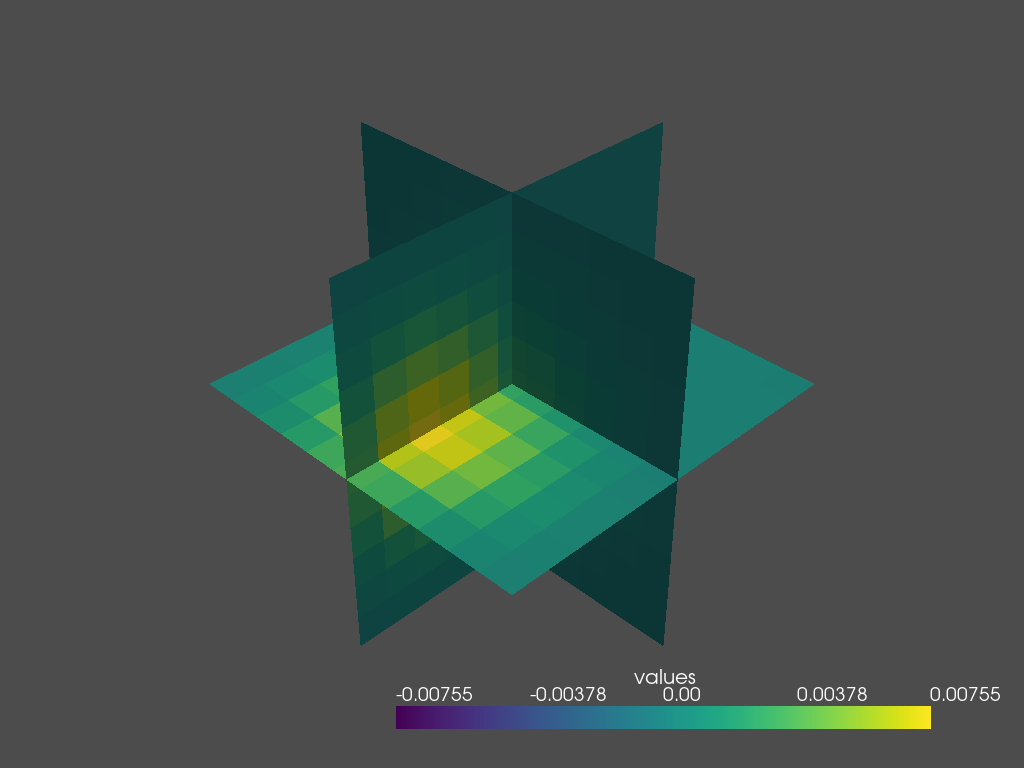
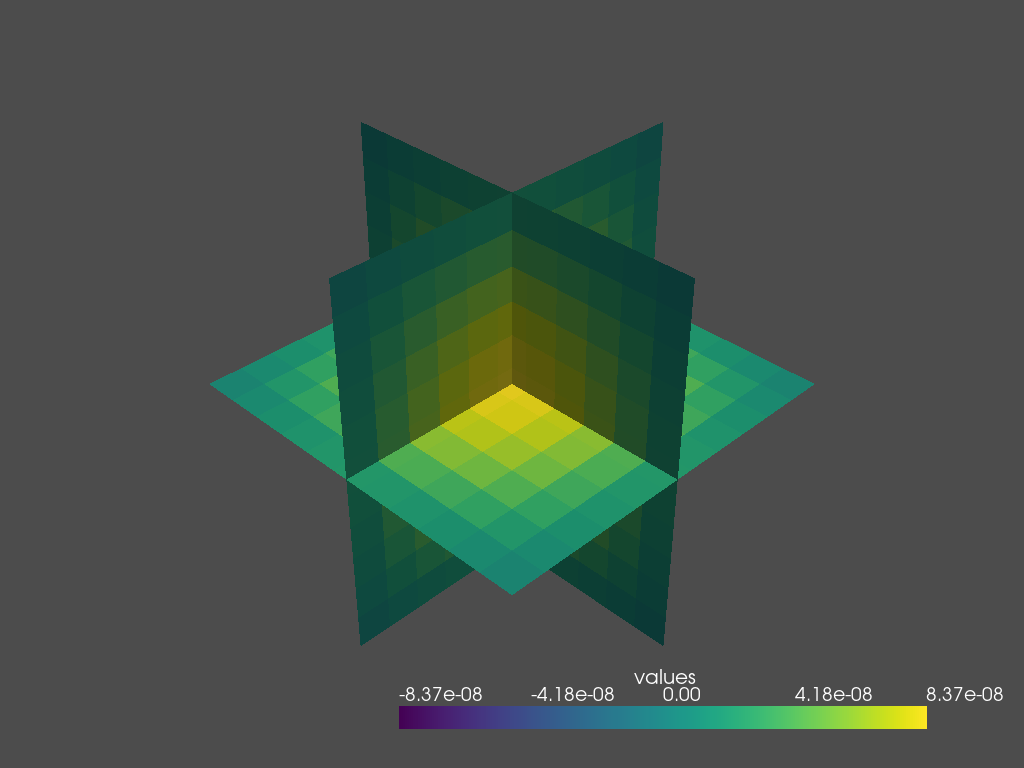
:wastebasket: cleaned up Sample_Equation diffusion scripts

diff --git a/Sample_Equations/diffusion/diffusion_3D_wBCs.py b/Sample_Equations/diffusion/diffusion_3D_wBCs.py
@@ -5,22 +5,19 @@
 import argparse
 import numpy as np
 
-import sys, os
-import codecs, json 
+from devito import Grid, TimeFunction, Eq, solve, Operator, Constant, norm
 
-# os.system('/usr/bin/Xvfb :99 -screen 0 1024x768x24 &')
+import os
 os.environ['DISPLAY'] = ':99'
 
 import panel as pn
 pn.extension('vtk')
 
-from devito import Grid, TimeFunction, Eq, solve, Operator, Constant, norm
-
 parser = argparse.ArgumentParser(description='Process arguments.')
 
 parser.add_argument("-d", "--shape", default=(11, 11, 11), type=int, nargs="+",
                     help="Number of grid points along each axis")
-parser.add_argument("-so", "--space_order", default=4,
+parser.add_argument("-so", "--space_order", default=2,
                     type=int, help="Space order of the simulation")
 parser.add_argument("-to", "--time_order", default=1,
                     type=int, help="Time order of the simulation")
@@ -31,23 +28,14 @@ parser.add_argument("-bls", "--blevels", default=2, type=int, nargs="+",
 parser.add_argument("-plot", "--plot", default=False, type=bool, help="Plot3D")
 args = parser.parse_args()
 
-def dump_json(u,name):
-    b = u.data.tolist() # nested lists with same data, indices
-    file_path = f"{name}.json" ## your path variable
-    json.dump(b, codecs.open(file_path, 'w', encoding='utf-8'), 
-            separators=(',', ':'), 
-            sort_keys=True, 
-            indent=4) ### this saves the array in .json format
 
 def plot_3dfunc(u):
-    pn.extension('vtk')
     # Plot a 3D structured grid using pyvista
 
     import matplotlib.pyplot as plt
     import pyvista as pv
 
-  
-    cmap = plt.colormaps["viridis"]
+    cmap = plt.cm.get_cmap("viridis")
     values = u.data[0, :, :, :]
     vistagrid = pv.UniformGrid()
     vistagrid.dimensions = np.array(values.shape) + 1
@@ -57,11 +45,12 @@ def plot_3dfunc(u):
     vistaslices = vistagrid.slice_orthogonal()
     # vistagrid.plot(show_edges=True)
     # vistaslices.plot(cmap=cmap)
-
+    
     plotter = pv.Plotter(off_screen=True)
     color_range = abs(max(values.min(), values.max(), key=abs))
     plotter.add_mesh(vistaslices,cmap=cmap,clim=[-color_range,color_range])
     plotter.show(screenshot=f'./diffuse.png') 
+
 
 # Some variable declarations
 nx, ny, nz = args.shape
@@ -74,15 +63,13 @@ sigma = .25
 dt = sigma * dx * dz * dy / nu
 so = args.space_order
 to = 1
+print("dx %s, dy %s, dz %s" % (dx, dy, dz))
 
 grid = Grid(shape=(nx, ny, nz), extent=(2., 2., 2.))
 u = TimeFunction(name='u', grid=grid, space_order=so)
 # init_hat(field=u.data[0], dx=dx, dy=dy, value=2.)
 u.data[:, :, :, :] = 0
-u.data[:, int(3*nx/4), int(ny/2), int(nz/2)] = 1
-
-
-dump_json(u,"initial_value")
+u.data[:, int(nx/2), :, :] = 1
 
 a = Constant(name='a')
 # Create an equation with second-order derivatives
@@ -94,7 +81,6 @@ eq_stencil = Eq(u.forward, stencil)
 x, y, z = grid.dimensions
 t = grid.stepping_dim
 
-
 # Add boundary conditions
 # bc = [Eq(u[t+1, x, y, 0], 2.)]  # bottom
 # bc += [Eq(u[t+1, x, y, nz-1], 2.)]  # top
@@ -104,21 +90,22 @@ t = grid.stepping_dim
 # bc += [Eq(u[t+1, x, 0, z], 2.)]  # front
 # bc += [Eq(u[t+1, x, ny-1, z], 2.)]  # back
 
+print(eq_stencil)
+
 # Create an operator that updates the forward stencil point
 # plus adding boundary conditions
 # op = Operator([eq_stencil] + bc, subdomain=grid.interior)
 
 # No BCs
-op = Operator([eq_stencil], subdomain=grid.interior)
-# print(op.ccode)
+op = Operator([eq_stencil], subdomain=grid.interior,time=nt, dt=dt, a=nu)
 
-print(nt)
+print(op.arguments())
+
 # Apply the operator for a number of timesteps
 op(time=nt, dt=dt, a=nu)
 
-print(u.shape)
-# print("nt+dt/dt gives :",int((nt+dt)/dt))
 if args.plot:
     plot_3dfunc(u)
 
+print("Field norm is:", norm(u))
 # import pdb;pdb.set_trace()

diff --git a/Sample_Equations/diffusion/c_files/kernel.c b/Sample_Equations/diffusion/c_files/kernel.c
@@ -1,0 +1,78 @@
+#define _POSIX_C_SOURCE 200809L
+#define START_TIMER(S) struct timeval start_ ## S , end_ ## S ; gettimeofday(&start_ ## S , NULL);
+#define STOP_TIMER(S,T) gettimeofday(&end_ ## S, NULL); T->S += (double)(end_ ## S .tv_sec-start_ ## S.tv_sec)+(double)(end_ ## S .tv_usec-start_ ## S .tv_usec)/1000000;
+#define MIN(a,b) (((a) < (b)) ? (a) : (b))
+
+#include "stdlib.h"
+#include "math.h"
+#include "sys/time.h"
+#include "xmmintrin.h"
+#include "pmmintrin.h"
+#include <stdio.h>
+
+struct dataobj
+{
+  void *restrict data;
+  unsigned long * size;
+  unsigned long * npsize;
+  unsigned long * dsize;
+  int * hsize;
+  int * hofs;
+  int * oofs;
+  void * dmap;
+} ;
+
+struct profiler
+{
+  double section0;
+} ;
+
+
+int Kernel(const float a, struct dataobj *restrict u_vec, const float dt, const float h_x, const float h_y, const float h_z, const int time_M, const int time_m, const int x0_blk0_size, const int x_M, const int x_m, const int y0_blk0_size, const int y_M, const int y_m, const int z_M, const int z_m, struct profiler * timers)
+{
+  float (*restrict u)[u_vec->size[1]][u_vec->size[2]][u_vec->size[3]] __attribute__ ((aligned (64))) = (float (*)[u_vec->size[1]][u_vec->size[2]][u_vec->size[3]]) u_vec->data;
+
+  /* Flush denormal numbers to zero in hardware */
+  _MM_SET_DENORMALS_ZERO_MODE(_MM_DENORMALS_ZERO_ON);
+  _MM_SET_FLUSH_ZERO_MODE(_MM_FLUSH_ZERO_ON);
+
+  float r0 = 1.0F/dt;
+  float r1 = 1.0F/(h_x*h_x);
+  float r2 = 1.0F/(h_y*h_y);
+  float r3 = 1.0F/(h_z*h_z);
+
+  printf("\nshape of Kernel = %lx, %lx, %lx\n",u_vec->size[1],u_vec->size[2],u_vec->size[3]);
+  printf("x_m               = %i\n", x_m);
+  printf("x_M               = %i\n", x_M);
+  printf("time_m            = %i\n", time_m);
+  printf("time_M            = %i\n", time_M);
+  for (int time = time_m, t0 = (time)%(2), t1 = (time + 1)%(2); time <= time_M; time += 1, t0 = (time)%(2), t1 = (time + 1)%(2))
+  {
+    /* Begin section0 */
+    START_TIMER(section0)
+    for (int x0_blk0 = x_m; x0_blk0 <= x_M; x0_blk0 += x0_blk0_size)
+    {
+      for (int y0_blk0 = y_m; y0_blk0 <= y_M; y0_blk0 += y0_blk0_size)
+      {
+        for (int x = x0_blk0; x <= MIN(x_M, x0_blk0 + x0_blk0_size - 1); x += 1)
+        {
+          for (int y = y0_blk0; y <= MIN(y_M, y0_blk0 + y0_blk0_size - 1); y += 1)
+          {
+            #pragma omp simd aligned(u:32)
+            for (int z = z_m; z <= z_M; z += 1)
+            {
+              float r4 = -2.5F*u[t0][x + 4][y + 4][z + 4];
+              u[t1][x + 4][y + 4][z + 4] = dt*(a*(r1*(r4 + (-8.33333333e-2F)*(u[t0][x + 2][y + 4][z + 4] + u[t0][x + 6][y + 4][z + 4]) + 1.33333333F*(u[t0][x + 3][y + 4][z + 4] + u[t0][x + 5][y + 4][z + 4])) + r2*(r4 + (-8.33333333e-2F)*(u[t0][x + 4][y + 2][z + 4] + u[t0][x + 4][y + 6][z + 4]) + 1.33333333F*(u[t0][x + 4][y + 3][z + 4] + u[t0][x + 4][y + 5][z + 4])) + r3*(r4 + (-8.33333333e-2F)*(u[t0][x + 4][y + 4][z + 2] + u[t0][x + 4][y + 4][z + 6]) + 1.33333333F*(u[t0][x + 4][y + 4][z + 3] + u[t0][x + 4][y + 4][z + 5]))) + r0*u[t0][x + 4][y + 4][z + 4]);
+            }
+          }
+        }
+      }
+    }
+    STOP_TIMER(section0,timers)
+    /* End section0 */
+  }
+
+  return 0;
+}
+/* Backdoor edit at Tue May 23 17:00:19 2023*/ 
+/* Backdoor edit at Tue May 23 17:00:39 2023*/ 

diff --git a/Sample_Equations/diffusion/MFC.py b/Sample_Equations/diffusion/MFC.py
@@ -5,22 +5,19 @@
 import argparse
 import numpy as np
 
+from devito import Grid, TimeFunction, Eq, solve, Operator, Constant, norm
 
-import sys, os
-
-# os.system('/usr/bin/Xvfb :99 -screen 0 1024x768x24 &')
+import os
 os.environ['DISPLAY'] = ':99'
 
 import panel as pn
 pn.extension('vtk')
 
-from devito import Grid, TimeFunction, Eq, solve, Operator, Constant, norm
-
 parser = argparse.ArgumentParser(description='Process arguments.')
 
 parser.add_argument("-d", "--shape", default=(11, 11, 11), type=int, nargs="+",
                     help="Number of grid points along each axis")
-parser.add_argument("-so", "--space_order", default=4,
+parser.add_argument("-so", "--space_order", default=2,
                     type=int, help="Space order of the simulation")
 parser.add_argument("-to", "--time_order", default=1,
                     type=int, help="Time order of the simulation")
@@ -31,33 +28,8 @@ parser.add_argument("-bls", "--blevels", default=2, type=int, nargs="+",
 parser.add_argument("-plot", "--plot", default=False, type=bool, help="Plot3D")
 args = parser.parse_args()
 
-
-def plot_3dfunc(u):
-    pn.extension('vtk')
-    # Plot a 3D structured grid using pyvista
-
-    import matplotlib.pyplot as plt
-    import pyvista as pv
-
-  
-    cmap = plt.colormaps["viridis"]
-    values = u.data[0, :, :, :]
-    vistagrid = pv.UniformGrid()
-    vistagrid.dimensions = np.array(values.shape) + 1
-    vistagrid.spacing = (1, 1, 1)
-    vistagrid.origin = (0, 0, 0)  # The bottom left corner of the data set
-    vistagrid.cell_data["values"] = values.flatten(order="F")
-    vistaslices = vistagrid.slice_orthogonal()
-    # vistagrid.plot(show_edges=True)
-    # vistaslices.plot(cmap=cmap)
-
-    plotter = pv.Plotter(off_screen=True)
-    color_range = abs(max(values.min(), values.max(), key=abs))
-    plotter.add_mesh(vistaslices,cmap=cmap,clim=[-color_range,color_range])
-    plotter.show(screenshot=f'./diffuse.png') 
-
 # Some variable declarations
-nx, ny, nz = args.shape
+nx, ny, nz = 11,11,11
 nt = args.nt
 nu = .5
 dx = 2. / (nx - 1)
@@ -67,6 +39,7 @@ sigma = .25
 dt = sigma * dx * dz * dy / nu
 so = args.space_order
 to = 1
+print("dx %s, dy %s, dz %s" % (dx, dy, dz))
 
 grid = Grid(shape=(nx, ny, nz), extent=(2., 2., 2.))
 u = TimeFunction(name='u', grid=grid, space_order=so)
@@ -93,13 +66,19 @@ t = grid.stepping_dim
 # bc += [Eq(u[t+1, x, 0, z], 2.)]  # front
 # bc += [Eq(u[t+1, x, ny-1, z], 2.)]  # back
 
+print(eq_stencil)
+
 # Create an operator that updates the forward stencil point
 # plus adding boundary conditions
 # op = Operator([eq_stencil] + bc, subdomain=grid.interior)
 
 # No BCs
-op = Operator([eq_stencil], subdomain=grid.interior)
-# print(op.ccode)
+op = Operator([eq_stencil], subdomain=grid.interior,time=nt, dt=dt, a=nu)
+
+print(grid.interior)
+print(grid.dimensions)
+
+# op()
 
 # Apply the operator for a number of timesteps
 op(time=nt, dt=dt, a=nu)
@@ -107,4 +86,5 @@ op(time=nt, dt=dt, a=nu)
 if args.plot:
     plot_3dfunc(u)
 
+print("Field norm is:", norm(u))
 # import pdb;pdb.set_trace()

diff --git a/IPU/WaveEquation3D_TO2/codelets.cpp b/IPU/WaveEquation3D_TO2/codelets.cpp
@@ -66,10 +66,10 @@ class WaveEquationOptimised : public Vertex
 public:
   WaveEquationOptimised();
 
-  Vector<Input<Vector<float, VectorLayout::SPAN, 8, false>>> in1;
-  Vector<Input<Vector<float, VectorLayout::SPAN, 8, false>>> in2;
-  Vector<Input<Vector<float, VectorLayout::SPAN, 8, false>>> damp;
-  Vector<Input<Vector<float, VectorLayout::SPAN, 8, false>>> vp;
+  Vector<Input<Vector<float, VectorLayout::SPAN, 8, true>>> in1;
+  Vector<Input<Vector<float, VectorLayout::SPAN, 8, true>>> in2;
+  Vector<Input<Vector<float, VectorLayout::SPAN, 8, true>>> damp;
+  Vector<Input<Vector<float, VectorLayout::SPAN, 8, true>>> vp;
   Vector<Output<Vector<float, VectorLayout::SPAN, 4, false>>> out;
   const unsigned worker_height;
   const unsigned worker_width;

diff --git a/IPU/DiffusionEquation3D_SO4/main.cpp b/IPU/DiffusionEquation3D_SO4/main.cpp
@@ -331,7 +331,7 @@ int main (int argc, char** argv) {
     auto exe_diff = std::chrono::duration_cast<std::chrono::nanoseconds>(exe_stop - exe_start);
     double wall_time = 1e-9*exe_diff.count();
 
-    auto stream_diff = std::chrono::duration_cast<std::chrono::nanoseconds>((exe_start - stream_end + stream_end - exe_start)/2);
+    auto stream_diff = std::chrono::duration_cast<std::chrono::nanoseconds>(exe_start - stream_start);
     double stream_time = 1e-9*stream_diff.count();
 
     printResults(options, wall_time,stream_time);

diff --git a/IPU/DiffusionEquation3D_SO4/utils.hpp b/IPU/DiffusionEquation3D_SO4/utils.hpp
@@ -61,7 +61,7 @@ namespace utils {
     )
     (
       "num-iterations",
-      po::value<unsigned>(&options.num_iterations)->default_value(40),
+      po::value<unsigned>(&options.num_iterations)->default_value(1000),
       "PDE: number of iterations to execute on grid."
     )
     (
